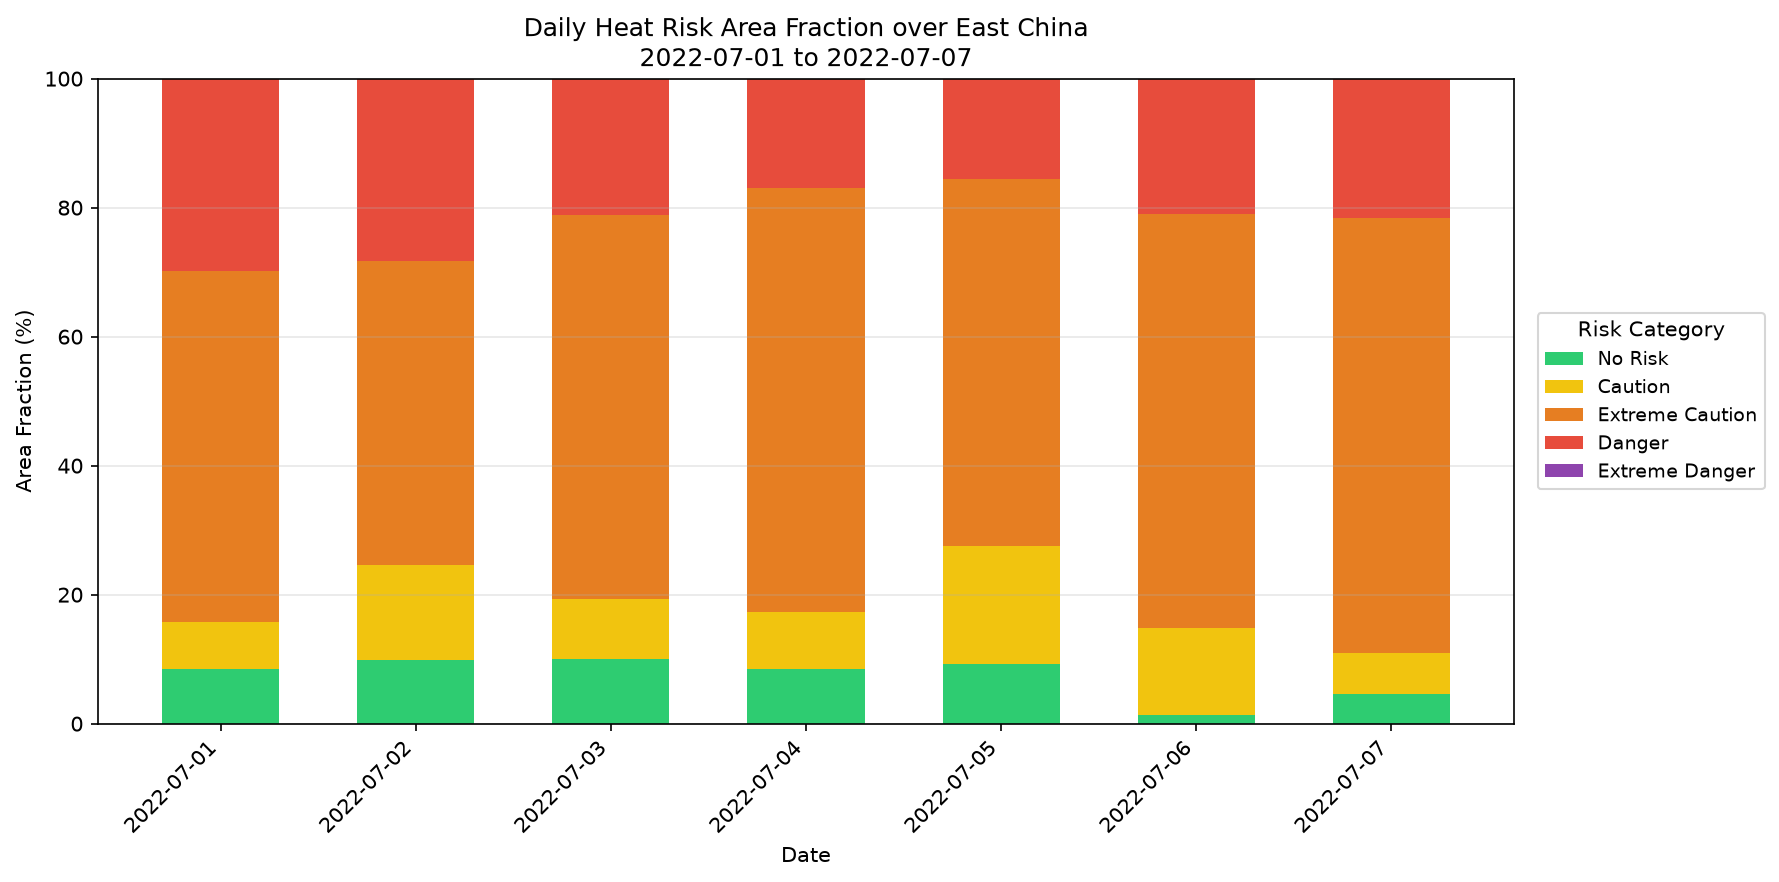
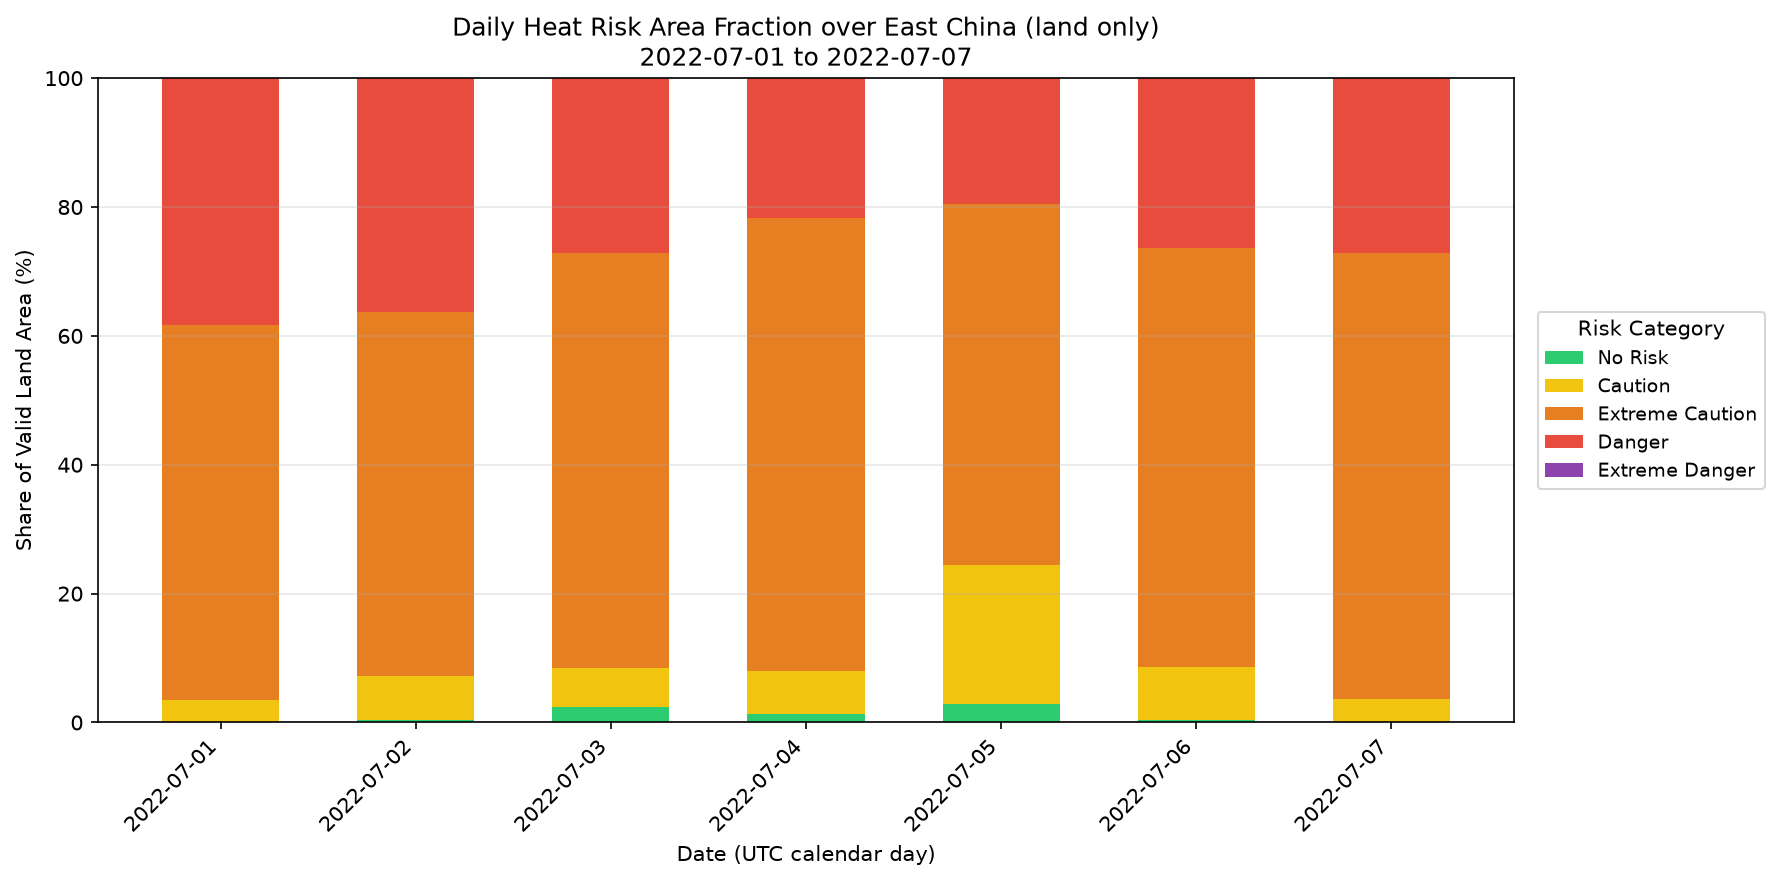
Publish v0.3 outputs: regenerate UTC runs, add Beijing-time runs
Result change: all four configs re-run with the phase 1b methods
(NOAA/WPC heat index, land-only area fractions, Missing category,
strict 24-hour days) and the v0.3 output format (6108c42). Inputs: the
validated raw files of the phase 1b check (no new CDS download).

UTC configs (sample_2022_07_01_07, july_2022) overwrite the tracked
v0.2 CSVs and figures (figures/v0.1_sample_7day, v0.2_july_2022).
Beijing-time configs (*_bjt) add new CSVs and figures
(figures/v0.3_sample_7day_bjt, v0.3_july_2022_bjt). Each run adds
data/processed/run_info_<tag>.json.

Before/after, July 2022 period-mean land area fraction (%), No Risk /
Caution / Extreme Caution / Danger / Extreme Danger:
  v0.2 tracked (old HI, all cells, UTC): 4.1 / 7.8 / 50.8 / 37.3 / 0.0
  v0.3 UTC days:                         1.7 / 5.2 / 45.2 / 48.0 / 0.0
  v0.3 Beijing days:                     1.4 / 5.0 / 45.6 / 48.0 / 0.0
Hottest risk day 2022-07-09 in all three, Danger+ 63.8 -> 80.9 %.
All 31 daily Danger+ values, the period means and the city heat index
means/maxima equal reports/phase1b_method_changes.md ("+ land only" for
UTC, "+ Beijing-time days" for Beijing time). Valid Land Coverage is
100 on every day. The 7-day CSVs equal the first 7 days of July.

CSV diffs vs v0.2: area fractions change (new values, new column
Valid Land Coverage); city_daily_tmax only renames time -> date
(values unchanged); city_daily_heat_index is byte-identical for UTC
[…]

diff --git a/tests/test_config.py b/tests/test_config.py
@@ -52,6 +52,15 @@ def test_config_reproduces_existing_outputs(config_name, tag, period):
     assert cfg.paths.fig_area_fraction.exists()
 
 
+@pytest.mark.parametrize("config_name", [name for pair in CONFIG_PAIRS for name in pair])
+def test_every_config_has_tracked_outputs(config_name):
+    # v0.3: the outputs of all four configs (UTC and Beijing time) are tracked.
+    cfg = load_config(CONFIG_DIR / config_name)
+    for name, path in vars(cfg.paths).items():
+        if name.endswith(("_csv", "_json")) or name.startswith("fig_"):
+            assert path.exists(), f"{path.relative_to(PROJECT_ROOT)} is not a tracked output"
+
+
 @pytest.mark.parametrize("utc_name, bjt_name", CONFIG_PAIRS)
 def test_beijing_config_has_its_own_files(utc_name, bjt_name):
     utc = load_config(CONFIG_DIR / utc_name)
